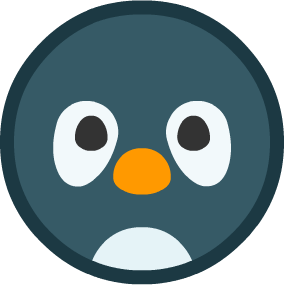
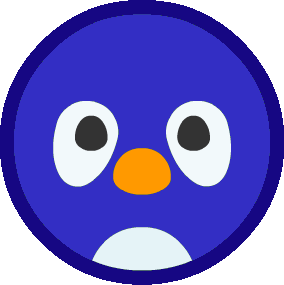
Modification des assets et Hexagone mis équilatéraux

diff --git a/src/main/java/Vue/NiveauGraphique.java b/src/main/java/Vue/NiveauGraphique.java
@@ -71,30 +71,28 @@ public class NiveauGraphique extends JComponent implements Observateur {
 
 		g.setFont(new Font("Arial", Font.BOLD, 30));
 		/* Load Assets */
-		BufferedImage[] assetsPlateau = new BufferedImage[20];
-		BufferedImage sablier = null;
+		BufferedImage[] assetsPlateau = new BufferedImage[19];
 
 		try {
-			sablier = ImageIO.read(new File("resources/assets/sablier.png"));
-			assetsPlateau[0] = ImageIO.read(new File("resources/assets/water.png"));
+			assetsPlateau[0] = ImageIO.read(new File("resources/assets/sablier.png"));
 			assetsPlateau[1] = ImageIO.read(new File("resources/assets/poisson1.png"));
 			assetsPlateau[2] = ImageIO.read(new File("resources/assets/poisson2.png"));
 			assetsPlateau[3] = ImageIO.read(new File("resources/assets/poisson3.png"));
-			assetsPlateau[4] = ImageIO.read(new File("resources/assets/penguinBleu.png"));
-			assetsPlateau[5] = ImageIO.read(new File("resources/assets/penguinVert.png"));
-			assetsPlateau[6] = ImageIO.read(new File("resources/assets/penguinRouge.png"));
-			assetsPlateau[7] = ImageIO.read(new File("resources/assets/penguinJaune.png"));
+			assetsPlateau[4] = ImageIO.read(new File("resources/assets/bleu.png"));
+			assetsPlateau[5] = ImageIO.read(new File("resources/assets/vert.png"));
+			assetsPlateau[6] = ImageIO.read(new File("resources/assets/rouge.png"));
+			assetsPlateau[7] = ImageIO.read(new File("resources/assets/jaune.png"));
 			assetsPlateau[8] = ImageIO.read(new File("resources/assets/poisson1Sel.png"));
 			assetsPlateau[9] = ImageIO.read(new File("resources/assets/poisson2Sel.png"));
 			assetsPlateau[10] = ImageIO.read(new File("resources/assets/poisson3Sel.png"));
-			assetsPlateau[11] = ImageIO.read(new File("resources/assets/penguinBleuC.png"));
-			assetsPlateau[12] = ImageIO.read(new File("resources/assets/penguinVertC.png"));
-			assetsPlateau[13] = ImageIO.read(new File("resources/assets/penguinRougeC.png"));
-			assetsPlateau[14] = ImageIO.read(new File("resources/assets/penguinJauneC.png"));
-			assetsPlateau[15] = ImageIO.read(new File("resources/assets/penguinBleuSel.png"));
-			assetsPlateau[16] = ImageIO.read(new File("resources/assets/penguinVertSel.png"));
-			assetsPlateau[17] = ImageIO.read(new File("resources/assets/penguinRougeSel.png"));
-			assetsPlateau[18] = ImageIO.read(new File("resources/assets/penguinJauneSel.png"));
+			assetsPlateau[11] = ImageIO.read(new File("resources/assets/bleuC.png"));
+			assetsPlateau[12] = ImageIO.read(new File("resources/assets/vertC.png"));
+			assetsPlateau[13] = ImageIO.read(new File("resources/assets/rougeC.png"));
+			assetsPlateau[14] = ImageIO.read(new File("resources/assets/jauneC.png"));
+			assetsPlateau[15] = ImageIO.read(new File("resources/assets/bleuSel.png"));
+			assetsPlateau[16] = ImageIO.read(new File("resources/assets/vertSel.png"));
+			assetsPlateau[17] = ImageIO.read(new File("resources/assets/rougeSel.png"));
+			assetsPlateau[18] = ImageIO.read(new File("resources/assets/jauneSel.png"));
 
 
 		} catch (IOException exc) {
@@ -112,7 +110,7 @@ public class NiveauGraphique extends JComponent implements Observateur {
 		g.setColor(Color.BLACK);
 
 		// DIMINUE LA TAILLE DES IMAGES IMPORTANT A PRENDRE EN COMPTE POUR LE CALCUL DES POSITIONS
-		((Graphics2D) g).scale(0.9, 1.3);
+		((Graphics2D) g).scale(1, 1);
 
 		// Variable du plateau
 		lignes = jeu.hauteur();

diff --git a/src/main/java/Vue/AdaptateurSouris.java b/src/main/java/Vue/AdaptateurSouris.java
@@ -45,14 +45,17 @@ public class AdaptateurSouris extends MouseAdapter {
 	public void mousePressed(MouseEvent e) {
 		int l;
 		int c;
-		float y = (float) e.getY() / (niv.hauteurCase() * (float) 1.3);
-		y *= (float) 1.3;
+		float y = (float) e.getY() / (niv.hauteurCase());
+		y *= 1.3f;
 		float x;
 		if ((int) y % 2 == 1) {
-			x = ((e.getX() - (niv.largeurCase() * (float) 0.9 / 2)) / niv.largeurCase() * (float) 1.1);
+			x = ((e.getX() - (niv.largeurCase() / 2f)) / niv.largeurCase());
 		} else {
-			x = (float) e.getX() / niv.largeurCase() * (float) 1.1;
+			x = (float) e.getX() / niv.largeurCase();
 		}
+
+		System.out.println("PosX = " + x );
+		System.out.println("PosY = " + y);
 		if ((int) x > 7 || (int) y > 7) {
 			return;
 		} else {

diff --git a/src/main/java/Controleur/ControleurMediateur.java b/src/main/java/Controleur/ControleurMediateur.java
@@ -14,7 +14,7 @@ public class ControleurMediateur implements CollecteurEvenements {
 
 	public ControleurMediateur(Jeu j) {
 		jeu = j;
-		nouvellePartie(1,1,0,0);
+		nouvellePartie(1, 2, 0, 0);
 	}
 
 	public void nouvellePartie(int j1, int j2, int j3, int j4) {
